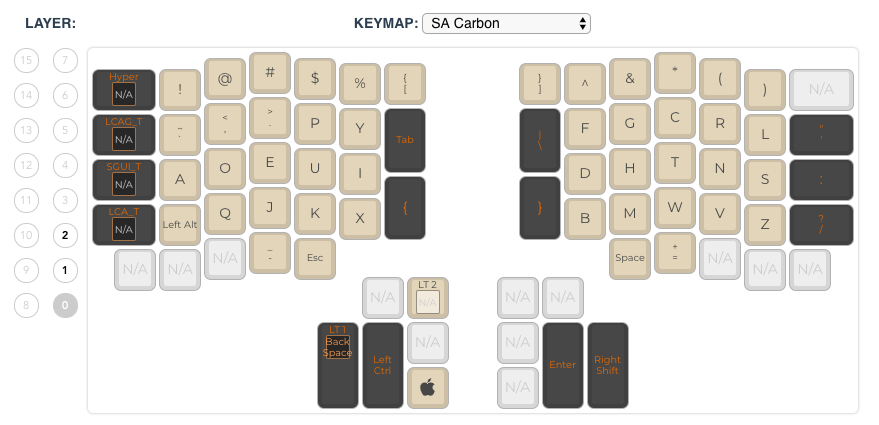
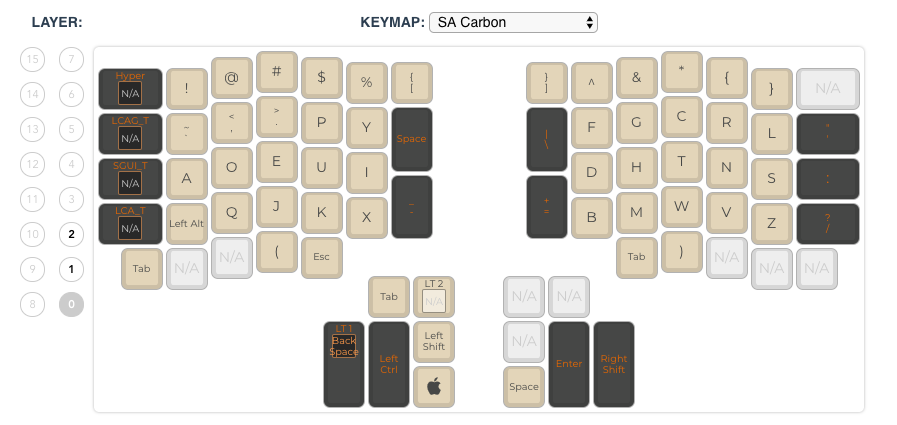
Update layouts.

diff --git a/keymap.c b/keymap.c
@@ -1,7 +1,7 @@
 #include QMK_KEYBOARD_H
 
 const uint16_t PROGMEM keymaps[][MATRIX_ROWS][MATRIX_COLS] = {
-	[0] = LAYOUT_ergodox(HYPR(KC_NO), KC_EXLM, KC_AT, KC_HASH, KC_DLR, KC_PERC, KC_LBRC, LCAG_T(KC_NO), KC_GRV, KC_COMM, KC_DOT, KC_P, KC_Y, KC_TAB, SGUI_T(KC_NO), KC_A, KC_O, KC_E, KC_U, KC_I, LCA_T(KC_NO), KC_LALT, KC_Q, KC_J, KC_K, KC_X, KC_LCBR, KC_NO, KC_NO, KC_NO, KC_MINS, KC_ESC, KC_NO, LT(2,KC_NO), KC_NO, LT(1,KC_BSPC), KC_LCTL, KC_LGUI, KC_RBRC, KC_CIRC, KC_AMPR, KC_ASTR, KC_LPRN, KC_RPRN, KC_NO, KC_BSLS, KC_F, KC_G, KC_C, KC_R, KC_L, KC_QUOT, KC_D, KC_H, KC_T, KC_N, KC_S, KC_COLN, KC_RCBR, KC_B, KC_M, KC_W, KC_V, KC_Z, KC_SLSH, KC_SPC, KC_EQL, KC_NO, KC_NO, KC_NO, KC_NO, KC_NO, KC_NO, KC_NO, KC_ENT, KC_RSFT),
-	[1] = LAYOUT_ergodox(HYPR(KC_NO), KC_NO, KC_NO, KC_NO, KC_NO, KC_NO, KC_NO, LCAG_T(KC_NO), KC_NO, KC_NO, KC_NO, KC_NO, KC_NO, KC_NO, SGUI_T(KC_NO), KC_NO, KC_NO, KC_NO, KC_NO, KC_NO, LCA_T(KC_NO), KC_NO, KC_NO, KC_NO, KC_NO, KC_NO, KC_LCTL, KC_NO, KC_NO, KC_NO, KC_NO, KC_NO, KC_NO, KC_NO, KC_NO, KC_NO, KC_NO, KC_NO, KC_NO, KC_NO, KC_NO, KC_NO, KC_NO, KC_NO, KC_NO, KC_NO, KC_NO, KC_P7, KC_P8, KC_P9, KC_NO, KC_DQUO, KC_NO, KC_P4, KC_P5, KC_P6, KC_NO, KC_SCLN, KC_RGUI, KC_NO, KC_P1, KC_P2, KC_P3, KC_NO, KC_QUES, KC_NO, KC_P0, KC_PDOT, KC_NO, KC_NO, KC_NO, KC_NO, KC_NO, KC_NO, KC_BSPC, KC_RSFT),
-	[2] = LAYOUT_ergodox(EEP_RST, KC_NO, KC_NO, KC_NO, KC_NO, KC_NO, KC_MPLY, RESET, KC_NO, KC_NO, KC_NO, KC_NO, KC_NO, KC_MPRV, KC_NO, KC_NO, KC_NO, KC_NO, KC_NO, KC_NO, KC_NO, KC_NO, KC_NO, KC_NO, KC_NO, KC_NO, KC_MNXT, KC_NO, KC_NO, KC_NO, KC_NO, KC_NO, KC_NO, KC_NO, KC_NO, KC_NO, KC_NO, KC_NO, KC_MUTE, KC_NO, KC_NO, KC_NO, KC_NO, KC_NO, KC_NO, KC__VOLUP, KC_WH_U, KC_NO, KC_MS_U, KC_NO, KC_NO, KC_NO, KC_NO, KC_MS_L, KC_BTN1, KC_MS_R, KC_NO, KC_BTN2, KC__VOLDOWN, KC_WH_D, KC_NO, KC_MS_D, KC_NO, KC_NO, KC_NO, KC_NO, KC_NO, KC_NO, KC_NO, KC_NO, KC_ACL2, KC_NO, KC_ACL1, KC_ACL0, KC_NO, KC_NO)
+	[0] = LAYOUT_ergodox(HYPR(KC_NO), KC_EXLM, KC_AT, KC_HASH, KC_DLR, KC_PERC, KC_LBRC, LCAG_T(KC_NO), KC_GRV, KC_COMM, KC_DOT, KC_P, KC_Y, KC_SPC, SGUI_T(KC_NO), KC_A, KC_O, KC_E, KC_U, KC_I, LCA_T(KC_NO), KC_LALT, KC_Q, KC_J, KC_K, KC_X, KC_MINS, KC_TAB, KC_NO, KC_NO, KC_LPRN, KC_ESC, KC_TAB, LT(2,KC_NO), KC_LSFT, LT(1,KC_BSPC), KC_LCTL, KC_LGUI, KC_RBRC, KC_CIRC, KC_AMPR, KC_ASTR, KC_LCBR, KC_RCBR, KC_NO, KC_BSLS, KC_F, KC_G, KC_C, KC_R, KC_L, KC_QUOT, KC_D, KC_H, KC_T, KC_N, KC_S, KC_COLN, KC_EQL, KC_B, KC_M, KC_W, KC_V, KC_Z, KC_SLSH, KC_TAB, KC_RPRN, KC_NO, KC_NO, KC_NO, KC_NO, KC_NO, KC_NO, KC_SPC, KC_ENT, KC_RSFT),
+	[1] = LAYOUT_ergodox(HYPR(KC_NO), KC_NO, KC_NO, KC_NO, KC_NO, KC_NO, KC_NO, LCAG_T(KC_NO), KC_NO, KC_NO, KC_NO, KC_NO, KC_NO, KC_NO, SGUI_T(KC_NO), KC_NO, KC_NO, KC_NO, KC_NO, KC_NO, LCA_T(KC_NO), KC_NO, KC_NO, KC_NO, KC_NO, KC_NO, KC_NO, KC_NO, KC_NO, KC_NO, KC_NO, KC_NO, KC_NO, KC_NO, KC_NO, KC_NO, KC_NO, KC_LGUI, KC_NO, KC_NO, KC_NO, KC_NO, KC_NO, KC_NO, KC_NO, KC_NO, KC_NO, KC_P7, KC_P8, KC_P9, KC_NO, KC_DQUO, KC_NO, KC_P4, KC_P5, KC_P6, KC_NO, KC_SCLN, KC_NO, KC_NO, KC_P1, KC_P2, KC_P3, KC_NO, KC_QUES, KC_NO, KC_P0, KC_PDOT, KC_NO, KC_NO, KC_NO, KC_NO, KC_NO, KC_RCTL, KC_BSPC, KC_RSFT),
+	[2] = LAYOUT_ergodox(EEP_RST, KC_NO, KC_NO, KC_NO, KC_NO, KC_NO, KC_MPLY, RESET, KC_NO, KC_NO, KC_NO, KC_NO, KC_NO, KC_MPRV, KC_NO, KC_NO, KC_NO, KC_NO, KC_NO, KC_NO, KC_NO, KC_NO, KC_NO, KC_NO, KC_NO, KC_NO, KC_MNXT, KC_NO, KC_NO, KC_NO, KC_NO, KC_NO, KC_NO, KC_NO, KC_NO, KC_NO, KC_NO, KC_NO, KC_MUTE, KC_NO, KC_NO, KC_NO, KC_NO, KC_NO, KC_NO, KC__VOLUP, KC_NO, KC_WH_D, KC_MS_U, KC_WH_U, KC_NO, KC_NO, KC_NO, KC_MS_L, KC_NO, KC_MS_R, KC_NO, KC_NO, KC__VOLDOWN, KC_NO, KC_NO, KC_MS_D, KC_NO, KC_NO, KC_NO, KC_NO, KC_NO, KC_NO, KC_NO, KC_NO, KC_ACL2, KC_NO, KC_ACL1, KC_ACL0, KC_BTN2, KC_BTN1)
 };

diff --git a/readme.md b/readme.md
@@ -11,17 +11,3 @@ To make use of this file you will need follow the following steps:
 * You are now ready to compile or use your keymap with the source
 
 More information can be found in the QMK docs: <https://docs.qmk.fm>
-
-## Screenshots
-
-Layer 0
-
-![Layer 0](https://github.com/luotaoruby/ergodox_qmk_layouts/blob/master/imgs/layer0.png)
-
-Layer 1
-
-![Layer 1](https://github.com/luotaoruby/ergodox_qmk_layouts/blob/master/imgs/layer1.png)
-
-Layer 2
-
-![Layer 2](https://github.com/luotaoruby/ergodox_qmk_layouts/blob/master/imgs/layer2.png)
